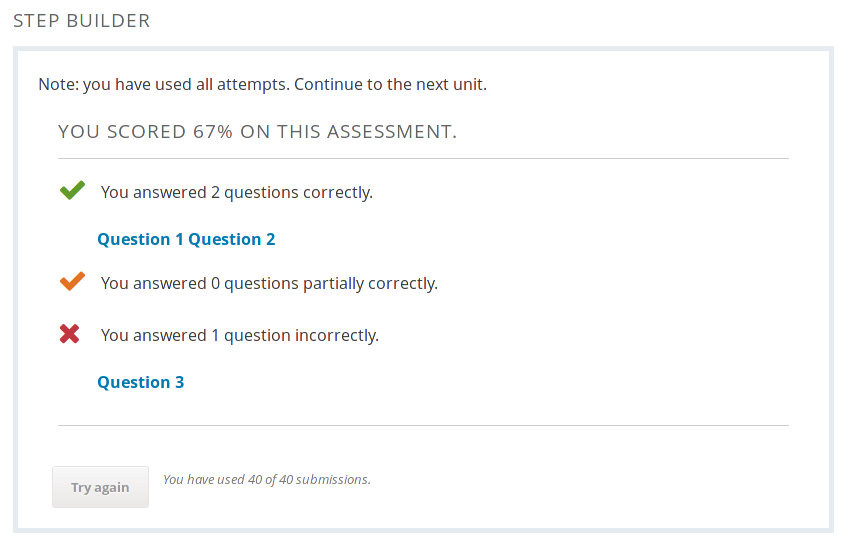
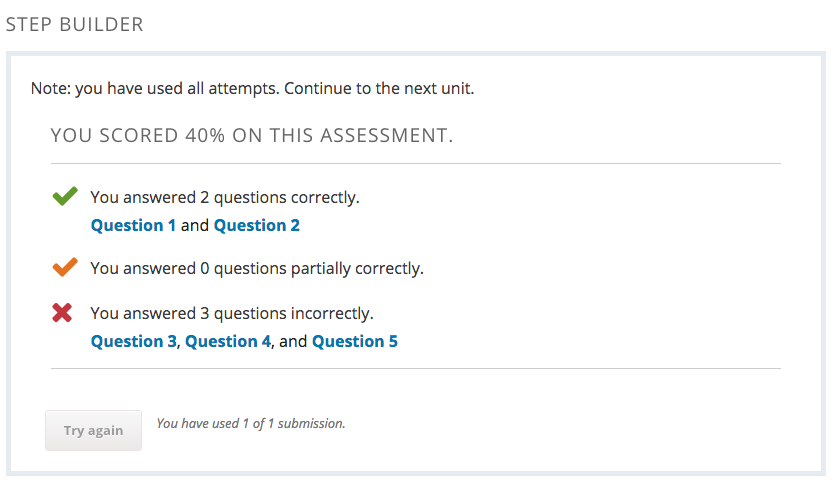
Fixed appearance of step links in extended feedback

Changed region(s): [[0.0, 0.0, 0.9976, 0.9959], [0.1871, 0.8714, 0.4365, 0.9025], [0.0624, 0.8714, 0.1559, 0.9336]]

diff --git a/problem_builder/templates/html/review_step.html b/problem_builder/templates/html/review_step.html
@@ -57,11 +57,16 @@
 
   <!-- Template for extended feedback: Show extended feedback details when all attempts are used up. -->
   <script type="text/template" id="xblock-step-links-template">
-  <% var q, last_question; %>
+  <% var q, last_question, second_last_question; %>
   <ul class="review-list <%= correctness %>-list">
-      <% for (var question in questions) {{ q = questions[question]; last_question = question == questions.length - 1; %>
-      <li><a href="#" class="step-link" data-step="<%= q.step %>"><%= _.template(gettext("Question {number}"), {number: q.number}, {interpolate: /\{(.+?)\}/g}) %></a></li>
-      <% }} %>
+      <% for (var question in questions) { %>
+        <% q = questions[question]; last_question = question == questions.length - 1; second_last_question = question == questions.length - 2; %>
+        <li>
+          <a href="#" class="step-link" data-step="<%= q.step %>"><%= 
+            _.template(gettext("Question {number}"), {number: q.number}, {interpolate: /\{(.+?)\}/g})
+          %></a><% if (!last_question) { %><%= (questions.length > 2 ? ", " : "") %><%= (second_last_question ? gettext(" and"): "") %><% } %>
+        </li>
+      <% } %>
   </ul>
   </script>
 

diff --git a/problem_builder/public/themes/lms.css b/problem_builder/public/themes/lms.css
@@ -103,3 +103,11 @@ div.course-wrapper section.course-content .themed-xblock.mentoring p:empty {
 .themed-xblock.mentoring .choice.incorrect .choice-tips-container.active {
     border-color: #c1373f;
 }
+
+.themed-xblock.mentoring .review-list {
+    margin-top: 0;
+}
+
+.themed-xblock.mentoring .grade .grade-result .results-section p {
+    margin-bottom: 4px; /* Override LMS rule 'div.course-wrapper section.course-content p { margin-bottom: huge; }' */
+}

diff --git a/problem_builder/public/css/problem-builder.css b/problem_builder/public/css/problem-builder.css
@@ -126,7 +126,6 @@
 
 .mentoring .grade .checkmark-incorrect {
     margin-left: 10px;
-    margin-right: 20px;
 }
 
 .mentoring input[type=button],
@@ -159,11 +158,12 @@
 }
 
 .mentoring .results-section {
-    float: left;
+    margin-left: 40px;
 }
 
 .mentoring .results-section p {
-    margin: 4px;
+    margin-bottom: 4px;
+    padding-top: 4px;
 }
 
 .mentoring .clear {

diff --git a/problem_builder/tests/integration/test_step_builder.py b/problem_builder/tests/integration/test_step_builder.py
@@ -264,6 +264,8 @@ class StepBuilderTest(MentoringAssessmentBaseTest):
             "num_attempts": 1, "max_attempts": max_attempts
         }
         self.peek_at_review(step_builder, controls, expected_results, extended_feedback=extended_feedback)
+        if extended_feedback and max_attempts == 1:
+            self.assertIn("Question 1 and Question 3", step_builder.find_element_by_css_selector('.correct-list').text)
 
         if max_attempts == 1:
             self.assert_message_text(step_builder, "On review message text")
@@ -302,6 +304,11 @@ class StepBuilderTest(MentoringAssessmentBaseTest):
             "num_attempts": 2, "max_attempts": max_attempts
         }
         self.peek_at_review(step_builder, controls, expected_results, extended_feedback=extended_feedback)
+        if extended_feedback and max_attempts == 2:
+            self.assertIn(
+                "Question 1, Question 2, and Question 4",
+                step_builder.find_element_by_css_selector('.correct-list').text
+            )
 
         if max_attempts == 2:
             self.assert_disabled(controls.try_again)
